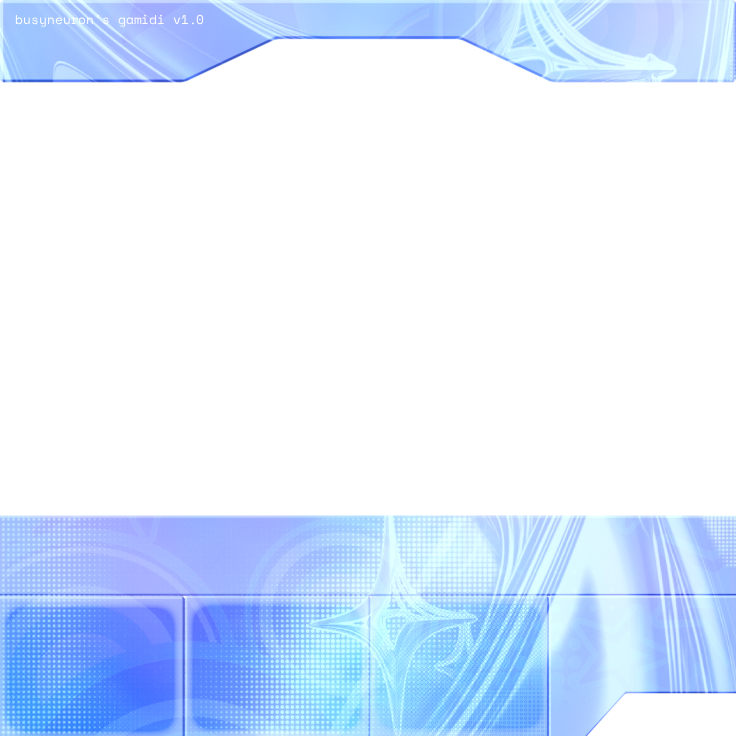
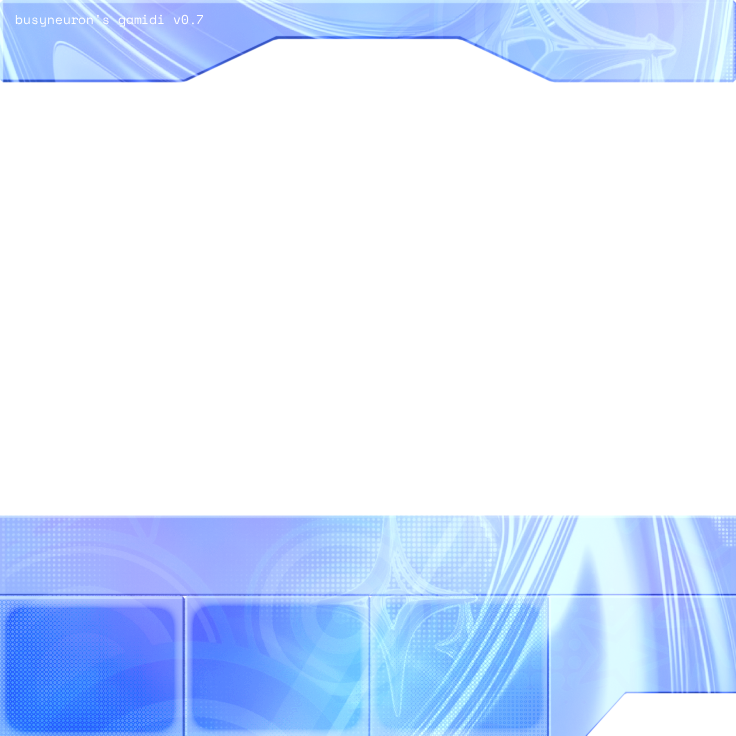
console logging

diff --git a/ui_components/console.py b/ui_components/console.py
@@ -1,0 +1,102 @@
+# ui_components/console.py
+import pygame
+from event_bus import bus
+
+class Console:
+    def __init__(self, parent):
+        self.parent = parent
+        self.font = parent.theme.fonts.get_mono_reg(12)
+        self.bg_color = (0, 0, 0, 0)
+        self.border_radius = 8
+        self.padding_x = 15
+        self.padding_y = 15
+        self.line_spacing = 2
+        self.max_lines = 8
+        self.text_color = parent.theme.dark
+
+        self.log_messages = []  # list of (text, color)
+
+        bus.on("ADD_LOG", self._on_add_log)
+
+    def _on_add_log(self, text, color):
+        self.add_log(text, color)
+
+    def add_log(self, text, color=None):
+        if color is None:
+            color = self.text_color
+        # Store original (non-wrapped) message; wrapping happens at draw time.
+        self.log_messages.insert(0, (text, color))
+        # We'll trim later in draw based on wrapped line count.
+        # But keep a reasonable cap to avoid unbounded growth.
+        if len(self.log_messages) > self.max_lines * 3:
+            self.log_messages.pop()
+
+    def _wrap_text(self, text, max_width, font):
+        """Wrap text to fit max_width (in pixels). Returns list of lines."""
+        words = text.split(' ')
+        lines = []
+        current_line = []
+        current_width = 0
+
+        for word in words:
+            word_surf = font.render(word, True, (0,0,0))
+            word_width = word_surf.get_width()
+            # Add space width if not first word
+            space_width = font.render(' ', True, (0,0,0)).get_width()
+            if current_line:
+                test_width = current_width + space_width + word_width
+            else:
+                test_width = word_width
+
+            if test_width <= max_width:
+                if current_line:
+                    current_line.append(word)
+                    current_width += space_width + word_width
+                else:
+                    current_line = [word]
+                    current_width = word_width
+            else:
+                # Finish current line
+                if current_line:
+                    lines.append(' '.join(current_line))
+                # Start new line with this word
+                current_line = [word]
+                current_width = word_width
+        if current_line:
+            lines.append(' '.join(current_line))
+        return lines
+
+    def draw(self, surface, rect):
+        # Draw background
+        bg_surf = pygame.Surface((rect.width, rect.height), pygame.SRCALPHA)
+        bg_surf.fill(self.bg_color)
+        pygame.draw.rect(bg_surf, self.bg_color, bg_surf.get_rect(), border_radius=self.border_radius)
+        surface.blit(bg_surf, rect)
+
+        # Calculate available width for text
+        text_max_width = rect.width - 2 * self.padding_x
+        if text_max_width <= 0:
+            return
+
+        # Build a list of all wrapped lines (with colors)
+        wrapped_lines = []  # list of (line_text, color)
+        for text, color in self.log_messages:
+            lines = self._wrap_text(text, text_max_width, self.font)
+            for line in lines:
+                wrapped_lines.append((line, color))
+                if len(wrapped_lines) >= self.max_lines:
+                    break
+            if len(wrapped_lines) >= self.max_lines:
+                break
+
+        # Draw lines from top (newest) to bottom
+        text_x = rect.x + self.padding_x
+        text_y = rect.y + self.padding_y
+        line_height = self.font.get_height() + self.line_spacing
+
+        for i, (line, color) in enumerate(wrapped_lines[:self.max_lines]):
+            y = text_y + i * line_height
+            if y + line_height > rect.bottom - self.padding_y:
+                break
+            text_surf = self.font.render(line, True, color)
+            surface.blit(text_surf, (text_x, y))

diff --git a/input_manager.py b/input_manager.py
@@ -10,20 +10,17 @@ class InputManager:
         self.joy = pygame.joystick.Joystick(0)
         self.joy.init()
         self.num_buttons = self.joy.get_numbuttons()
-        self.DEADZONE = 0.01
+        self.DEADZONE = 0.1   # increased for stability
 
-    def _apply_deadzone(self, val, threshold=None):
-        if threshold is None:
-            threshold = self.DEADZONE
-        return 0.0 if abs(val) < threshold else val
+    def _apply_deadzone(self, val):
+        return 0.0 if abs(val) < self.DEADZONE else val
 
     def get_raw_buttons(self):
-        """Return set of currently pressed button indices."""
         pressed = set()
         for i in range(self.num_buttons):
             if self.joy.get_button(i):
                 pressed.add(i)
-        # Convert hat to buttons 12-15
+        # hat to buttons (optional, keep if needed)
         hat = self.joy.get_hat(0)
         if hat[0] == -1: pressed.add(12)
         elif hat[0] == 1: pressed.add(13)
@@ -34,9 +31,16 @@ class InputManager:
     def get_axis(self, axis):
         return self._apply_deadzone(self.joy.get_axis(axis))
 
-    # input_manager.py (update the update method)
+    def get_left_stick(self):
+        """Return (x, y) for left stick, with deadzone applied."""
+        return (self.get_axis(0), self.get_axis(1))
+
+    def get_right_stick(self):
+        """Return (x, y) for right stick, with deadzone applied."""
+        return (self.get_axis(2), self.get_axis(3))
+
     def update(self):
-        """Poll and emit events for button presses/releases."""
+        """Call once per frame. Emits button events and stick events."""
         current = self.get_raw_buttons()
         if not hasattr(self, '_prev_buttons'):
             self._prev_buttons = set()
@@ -48,7 +52,8 @@ class InputManager:
             bus.emit("BUTTON_RELEASED", button=btn, value=False)
         self._prev_buttons = current
 
-
-        for i in range(4):  # assuming 4 axes
-            val = self.get_axis(i)
-            bus.emit("RAW_AXIS_MOVED", axis=i, value=val)
+        # Emit combined stick events
+        lx, ly = self.get_left_stick()
+        rx, ry = self.get_right_stick()
+        bus.emit("LEFT_STICK_UPDATED", x=lx, y=ly)
+        bus.emit("RIGHT_STICK_UPDATED", x=rx, y=ry)

diff --git a/circle_of_fifths/circle_controller.py b/circle_of_fifths/circle_controller.py
@@ -19,11 +19,11 @@ class CircleController:
         self._last_root_note = self.theory.root_note
         self._last_mode = self.theory.mode
 
-        # Subscribe to events
-        bus.on("RAW_AXIS_MOVED", self._on_axis_moved)
+        
+        bus.on("RIGHT_STICK_UPDATED", self._on_stick_updated)
         bus.on("FOCUS_CHANGED", self._on_focus_changed)
         bus.on("NOTE_ON_SENT", self._on_note_on)
-        # Optionally listen to scale changes to reset hover? Not necessary but safe
+        
         bus.on("SCALE_CHANGED", self._on_scale_changed)
         bus.on("TOGGLE_CIRCLE_RING", self._on_toggle_ring)
 
@@ -35,22 +35,9 @@ class CircleController:
         """Activate only when focus mode is 'circle'."""
         self.active = (mode == "circle")
 
-    def _on_axis_moved(self, axis: int, value: float):
+    def _on_stick_updated(self, x: float, y: float):
         if not self.active:
             return
-        # We expect right stick axes: axis 2 = X, axis 3 = Y (common on many controllers)
-        # But we need both X and Y values. The event gives one axis at a time.
-        # We'll store the latest values and process when both have been updated?
-        # Simpler: in update loop we could poll, but this is event-driven.
-        # Alternative: store axes values and only process when we have both.
-        # For simplicity, we will store axes in a dict and process on every axis move.
-        if not hasattr(self, '_axes'):
-            self._axes = {2: 0.0, 3: 0.0}
-        self._axes[axis] = value
-        # Process stick only when we have both axes (or just use latest)
-        # We'll call _update_stick with current X (axis2) and Y (axis3)
-        x = self._axes.get(2, 0.0)
-        y = self._axes.get(3, 0.0)
         self._update_stick(-x, -y)
 
     def _update_stick(self, x: float, y: float):
@@ -112,7 +99,7 @@ class CircleController:
 
         # Optional: emit a log event for UI
         bus.emit("ADD_LOG", text=f"Circle: {note_name} ({mode}) selected", color=(255,200,100))
-
+        
         # Reset hover and timer
         self.state.hovered_index = None
         self.state.exit_timer = 0

diff --git a/test_clock_sync_with_ui.py b/test_clock_sync_with_ui.py
@@ -28,7 +28,7 @@ from ui_components.scale_hud_state import ScaleHUDState
 def main():
     # Allow joystick events when window not focused
     os.environ['SDL_JOYSTICK_ALLOW_BACKGROUND_EVENTS'] = '1'
-
+    
     pygame.init()
     screen = pygame.display.set_mode((736, 736))
     pygame.display.set_caption("GAMIDI Test")
@@ -50,19 +50,17 @@ def main():
     # Voices
     voice = Voice(voice_id=0, event_bus=bus, theory_engine=theory,
                   degree_offset=0, octave_offset=0, channel=0)
-    voice.set_motif([("quarter", "normal")])
+    voice.set_motif([("quarter", "normal"), ("quarter rest", "normal")])
     vm.add_voice(voice)
 
     voice2 = Voice(voice_id=1, event_bus=bus, theory_engine=theory,
                    degree_offset=2, octave_offset=0, channel=0)
-    voice2.set_motif([("quarter rest", "normal"), ("sixteenth", "normal"),
-                      ("sixteenth", "normal"), ("eighth rest", "normal"),
-                      ("eighth", "normal")])
+    voice2.set_motif([("quarter rest", "normal"),("eighth", "normal"), ("eighth", "normal")])
     vm.add_voice(voice2)
 
     voice3 = Voice(voice_id=2, event_bus=bus, theory_engine=theory,
                    degree_offset=4, octave_offset=0, channel=0)
-    voice3.set_motif([("eighth rest", ""), ("eighth", "normal")])
+    voice3.set_motif([("quarter rest", "normal"),("eighth", "normal"), ("eighth", "normal")])
     vm.add_voice(voice3)
 
     # ---- Cursor Controller ----
@@ -110,6 +108,8 @@ def main():
     clock = pygame.time.Clock()
     running = True
 
+    bus.emit("ADD_LOG", text="Developed by busyneuron", color=(255,255,255))
+    bus.emit("ADD_LOG", text="Welcome to GAMIDI v1.1", color=(255,255,255))
     try:
         while running:
             pygame.event.pump()

diff --git a/interface.py b/interface.py
@@ -9,6 +9,7 @@ from ui_state import UIState
 from ui_components.scale_hud import ScaleHUD
 from circle_of_fifths.circle_controller import CircleController
 from circle_of_fifths.circle_view import CircleView
+from ui_components.console import Console
 
 class GamidiInterface:
     def __init__(self, screen, radial_controller, theory_engine):
@@ -29,6 +30,7 @@ class GamidiInterface:
         self.piano_roll = PianoRoll(self)
         self.radial_view = RadialMenuView(self, radial_controller)
         self.scale_hud = ScaleHUD(self)
+        self.console = Console(self)
 
         # Circle of Fifths
         self.circle_controller = CircleController(theory_engine)
@@ -70,13 +72,16 @@ class GamidiInterface:
         rect_kb = self.grid.get_rect(0, 11, 16, 2)
         self.keyboard.draw(self.layer_content, state.keyboard, rect_kb)
 
-        # Radial menu
-        rect_radial = self.grid.get_rect(8, 0, 8, 8)
-        self.radial_view.draw(self.layer_content, rect_radial)
+        rect_console = self.grid.get_rect(0, 13, 4, 3)   # adjust if needed (old position)
+        self.console.draw(self.layer_content, rect_console)
 
         # Scale HUD
         rect_scale_hud = self.grid.get_rect(1, 2, 10, 3)
         self.scale_hud.draw(self.layer_content, state.scale_hud, rect_scale_hud)
+
+        # Radial menu
+        rect_radial = self.grid.get_rect(8, 0, 8, 8)
+        self.radial_view.draw(self.layer_content, rect_radial)
 
         # Circle of Fifths
         rect_circle = self.grid.get_rect(2, 5, 6, 5)   # position as in old layout

diff --git a/radial_menu/rm_controller.py b/radial_menu/rm_controller.py
@@ -7,12 +7,12 @@ class RadialMenuController:
     # radial_menu/rm_controller.py
     def __init__(self, root_menu: Menu):
         self.state = RadialState(stack=[root_menu])
-        self.state.entry_grace_frames = 15   # 0.5 seconds at 60 fps
-        self.state.exit_grace_frames = 65
+        self.state.entry_grace_frames = 10   
+        self.state.exit_grace_frames = 200
         self.state.deadzone_grace_frames = 30
         self.axes = {"radial_menu_x": 0.0, "radial_menu_y": 0.0}
         self._active = True
-        bus.on("AXIS_MOVED", self._on_axis_moved)
+        bus.on("RIGHT_STICK_UPDATED", self._on_stick_updated)
         bus.on("FOCUS_CHANGED", self._on_focus_changed)
         self.active_gates = {}  # action_id -> bool
         bus.on("ACTION_STATE_CHANGED", self._on_action_state_changed)
@@ -40,12 +40,12 @@ class RadialMenuController:
     def get_state(self) -> RadialState:
         return self.state
 
-    def _on_axis_moved(self, axis: str, value: float):
+    def _on_stick_updated(self, x: float, y: float):
         if not self._active:
             return
-        if axis in self.axes:
-            self.axes[axis] = value
-            self._update()
+        
+        self.axes = {"radial_menu_x": x, "radial_menu_y": y}
+        self._update()
 
     def _update(self):
         """Update state based on current axes."""

diff --git a/action_manager.py b/action_manager.py
@@ -8,6 +8,7 @@ class ActionManager:
         self.theory = theory_engine
         self.momentary_actions = {"gate", "chord"}  # add others as needed
         bus.on("INVOKE_ACTION", self._on_action)
+        
 
     def _on_action(self, action_id, value):
         # Cursor movement
@@ -38,6 +39,7 @@ class ActionManager:
         elif action_id in self.momentary_actions:
             if action_id == "gate":
                 self.vm.set_gate(value)
+                
             elif action_id == "chord":
                 self.vm.set_chord(value)
 

diff --git a/action_mapper.py b/action_mapper.py
@@ -9,12 +9,11 @@ class ActionMapper:
             5: "gate",
             7: "chord",
             6: "jump_to_voice2",
-            8: "toggle_circle_ring",
+            4: "toggle_circle_ring",
         }
         bus.on("BUTTON_PRESSED", self._on_button_event)
         bus.on("BUTTON_RELEASED", self._on_button_event)
 
     def _on_button_event(self, button, value):
-        print(button)
         if button in self.button_map:
             bus.emit("INVOKE_ACTION", action_id=self.button_map[button], value=value)

diff --git a/focus_manager.py b/focus_manager.py
@@ -5,12 +5,11 @@ from event_bus import bus
 class FocusMode(Enum):
     RADIAL = "radial"
     CIRCLE = "circle"
-    FADER = "fader"
-    NONE = "none"
+    
 
 class FocusManager:
     def __init__(self):
-        self.modes = [FocusMode.RADIAL, FocusMode.CIRCLE, FocusMode.FADER, FocusMode.NONE]
+        self.modes = [FocusMode.RADIAL, FocusMode.CIRCLE]
         self.current_index = 0  # RADIAL
         self.current_mode = self.modes[self.current_index]
 
